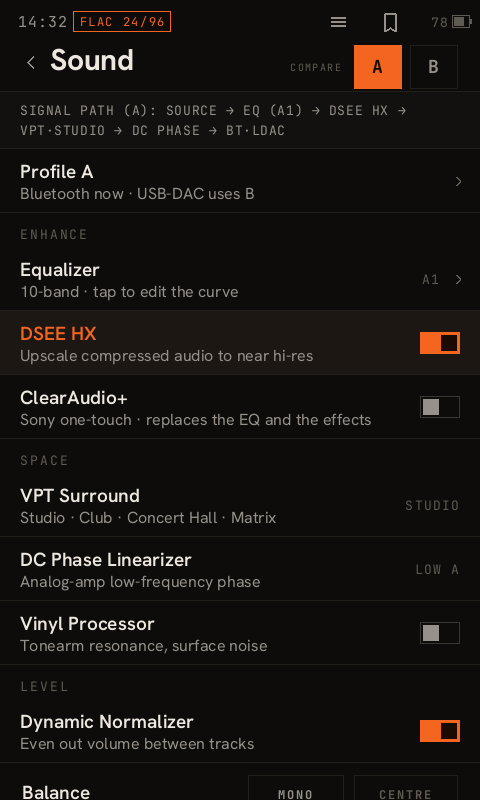
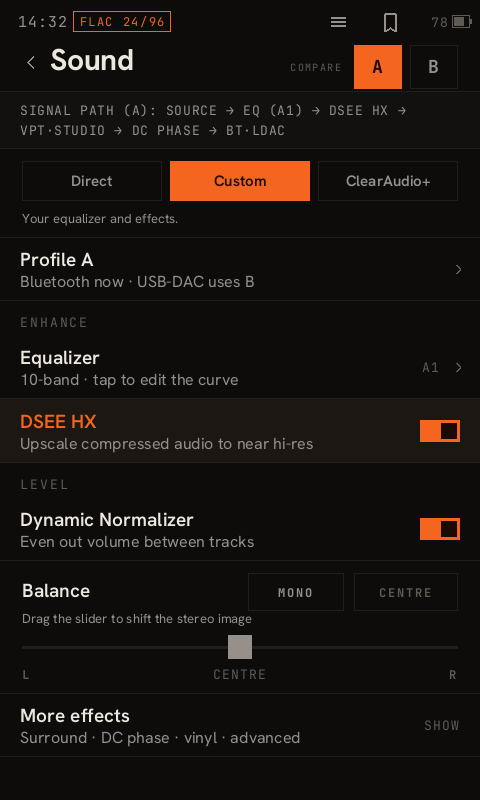
release: prepare v0.3.16 again

diff --git a/CHANGELOG.md b/CHANGELOG.md
@@ -18,7 +18,38 @@ level the commit history supports; from `v0.1.6` onward, entries are written as 
 
 ## [0.3.16] — 2026-10-11
 
+### Added
+
+- **Clear Bass on Walkman One** (experimental, not in the installer yet). Walkman One's sound
+  library still contains Sony's Clear Bass but leaves it out of the effect chain. The script
+  `cinder-home/deploy/cinder-chain.sh set clearbass` from this repository, pushed to the player
+  and run over adb (so a dev build today), puts it back in place of the DC
+  Phase Linearizer by changing one byte of the library; it refuses any library it does not
+  recognise, keeps the original, and `revert` restores it. Both take effect at the next start.
+  Cinder then shows Sound ▸ Advanced ▸ Clear Bass (Off, +2 to +10). While it is on, the 10-band
+  equalizer and Tone Control are out of the path, because Sony's firmware runs only one of the
+  three. Measured at the headphone jack with pink noise: +10 raises 35 to 90 Hz by about 8 dB and
+  lowers everything above 140 Hz by about 2 dB. Source Direct must be off. *Device-verified on
+  one Walkman One 3.02 player.*
+
 ### Changed
+
+- **The Sound page is short, and says what mode it is in.** One control at the top picks Direct
+  (no effects), Custom (your equalizer and effects) or ClearAudio+ (Sony's automatic tuning). It
+  replaces the Source Direct switch on Advanced and the ClearAudio+ switch, which silently turned
+  most of the page off. Below it are the everyday rows only: Profile, Equalizer, DSEE HX, Dynamic
+  Normalizer and Balance. A More effects row unfolds VPT Surround, DC Phase Linearizer, Vinyl
+  Processor and Advanced in place. A/B compare is unchanged. No setting changed meaning, so saved
+  settings and both profiles carry over. On Walkman One the control has two modes: that firmware
+  has no ClearAudio+, and the old switch never did anything there. *Device-verified on a
+  Walkman One player; the ClearAudio+ mode on stock firmware is host-tested only.*
+- **Bluetooth auto off also acts during wired listening.** With the screen dark, music on the
+  3.5 mm jack and no Bluetooth device linked for ten minutes, the radio switches off. It used to
+  wait for silence. Measured on a Walkman One player: with the radio on and nothing linked the
+  processor never entered its deep idle state during jack playback (0 entries in 3 minutes), and
+  with the radio off it entered it 291 times in the same 3 minutes. The saving in hours is not
+  measured. The radio does not come back by itself; the switch is in Settings. *The rule is
+  host-tested; not yet seen firing on a device.*
 
 - **Suspend to RAM now follows 10 seconds after the screen-off stage** (it was 60), the delay
   Sony's own firmware uses. Still only with `ram_suspend` switched on.
